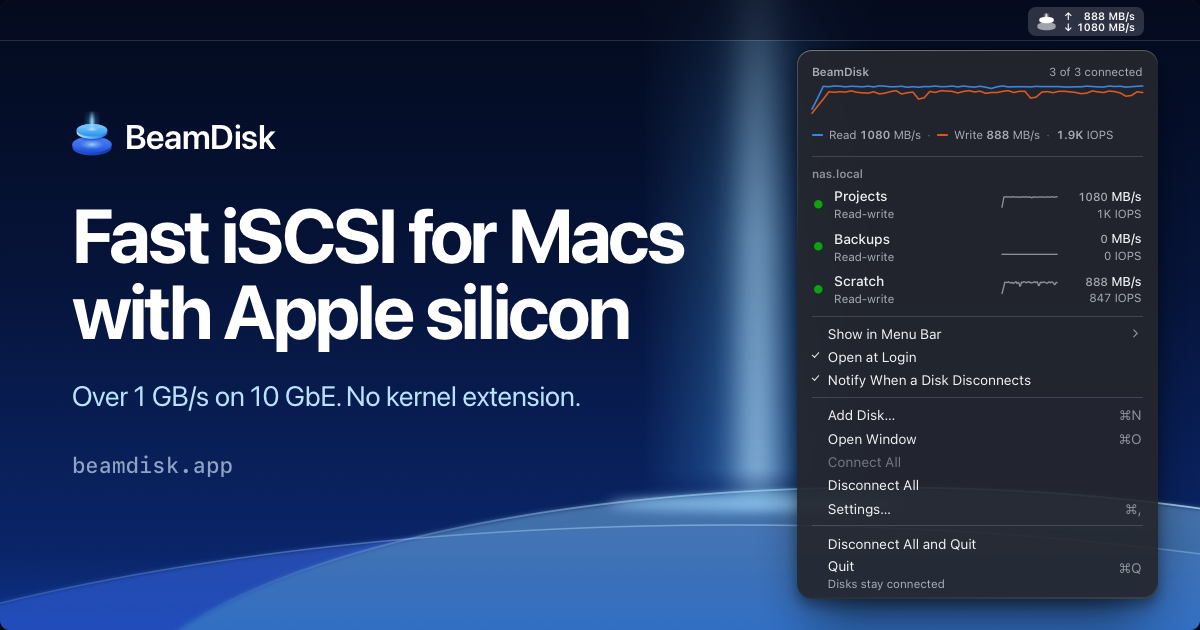
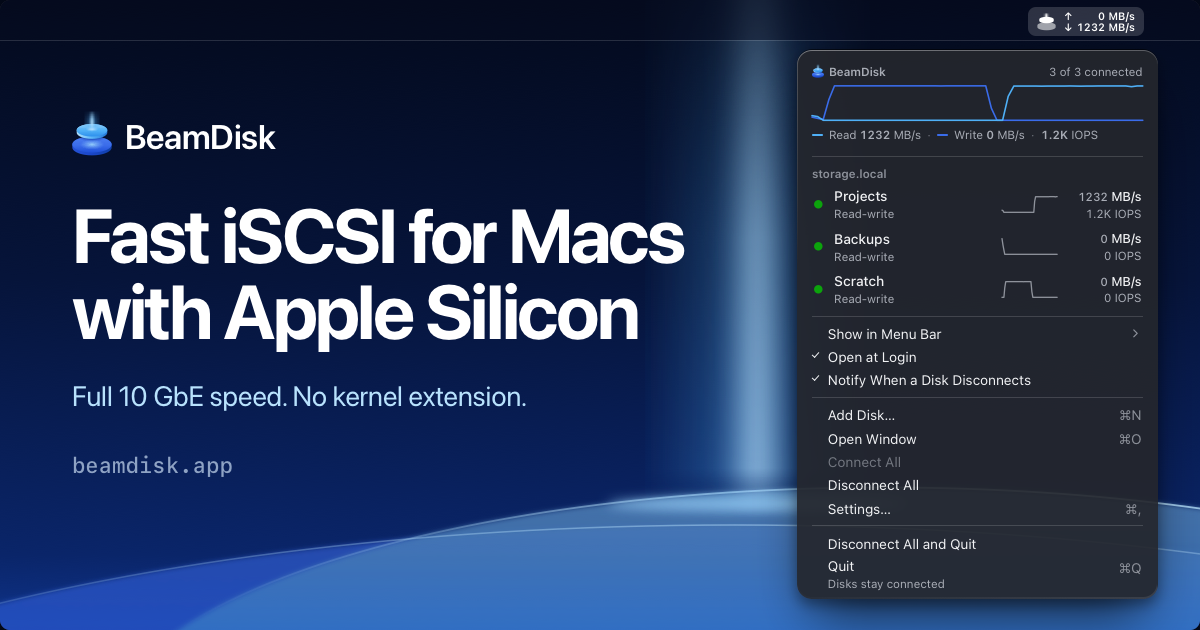
Update README.md

diff --git a/press-kit/README.md b/press-kit/README.md
@@ -8,13 +8,13 @@ If you need other assets, a review build, or want to coordinate on an embargo, [
 
 ## Boilerplate
 
-> BeamDisk connects a Mac with Apple Silicon to iSCSI storage on a server or SAN. The disk shows up in Finder, Disk Utility and Time Machine like a drive plugged into the Mac, reads at over 1 GB/s on 10 GbE, and needs no kernel extension or change to the Mac's security settings. It's free to download and free for home use; business use needs a license.
+> BeamDisk connects a Mac with Apple Silicon to iSCSI storage on a server or SAN. The disk shows up in Finder, Disk Utility and Time Machine like a drive plugged into the Mac, reads and writes at full 10 GbE speed, over 1.2 GB/s, and needs no kernel extension or change to the Mac's security settings. It's free to download and free for home use; business use needs a license.
 
 ## One-liners
 
 - **Tagline:** Beam your LUNs to your Mac.
 - **Short description:** Fast iSCSI for Macs with Apple Silicon.
-- **Long description:** An iSCSI initiator for Macs with Apple Silicon. Connect to your storage server or SAN, and its disks appear in Finder and Time Machine like local drives, at over 1 GB/s on 10 GbE. No kernel extension, no Recovery-mode restarts, no lowered security.
+- **Long description:** An iSCSI initiator for Macs with Apple Silicon. Connect to your storage server or SAN, and its disks appear in Finder and Time Machine like local drives, at full 10 GbE speed. No kernel extension, no Recovery-mode restarts, no lowered security.
 
 ## Quick facts
 

diff --git a/README.md b/README.md
@@ -46,7 +46,7 @@ BeamDisk connects a Mac with Apple Silicon to iSCSI storage on a server, a NAS, 
 ## Highlights
 
 - **No kernel extension** - installs from the App Store like any app. Turn it on once in System Settings: no Recovery-mode restarts, no Reduced Security.
-- **Line-rate on 10 GbE** - over 99% of what the link can carry, reading and writing. [The benchmarks](https://beamdisk.app/benchmarks/) show every run and what it ran on.
+- **Full 10 GbE speed** - over 99% of what the link can carry, reading and writing. [The benchmarks](https://beamdisk.app/benchmarks/) show every run and what it ran on.
 - **Finds your disks** - enter your server's address and BeamDisk lists every disk it offers this Mac. Tick the ones you want and name them.
 - **Time Machine to your server** - use an iSCSI disk as a Time Machine destination for better performance and resiliency than SMB.
 - **Rides out outages** - if the server stops answering, writes are held for up to 60 seconds and BeamDisk reconnects by itself.
